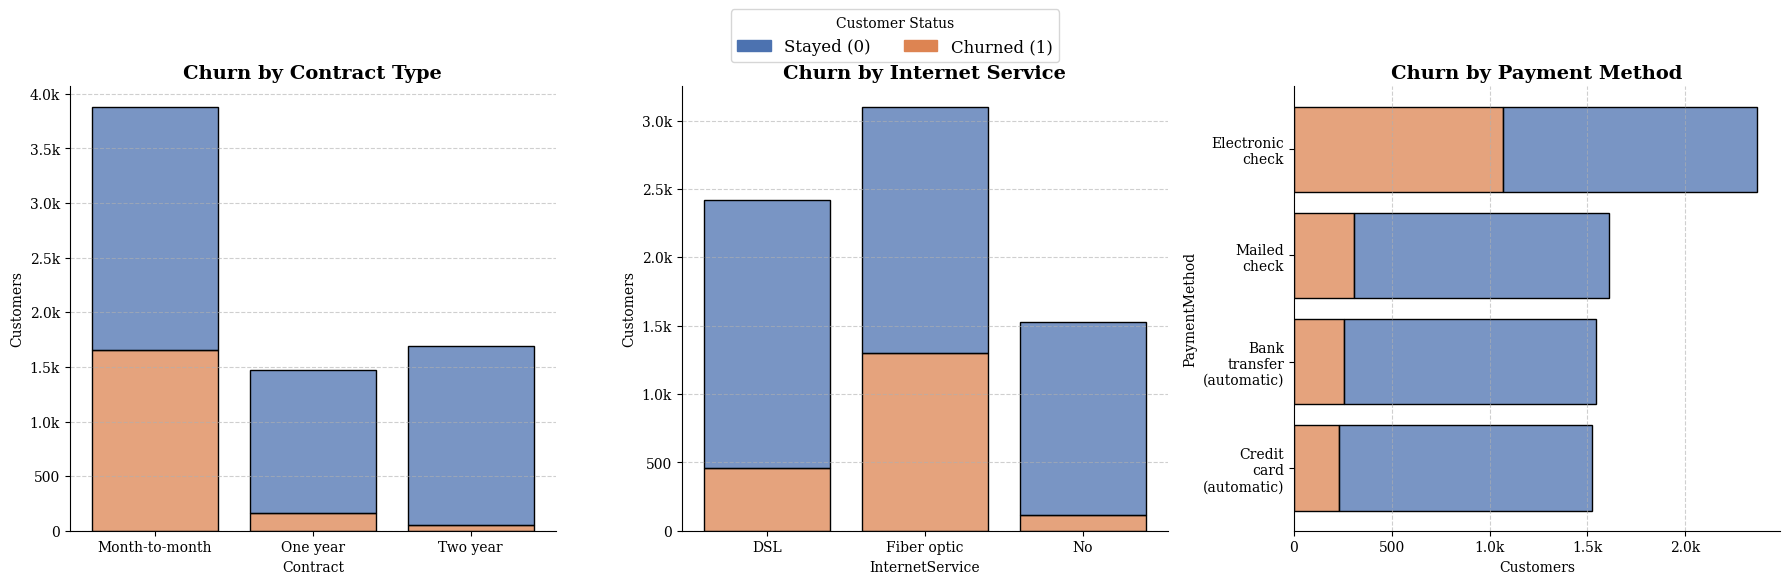
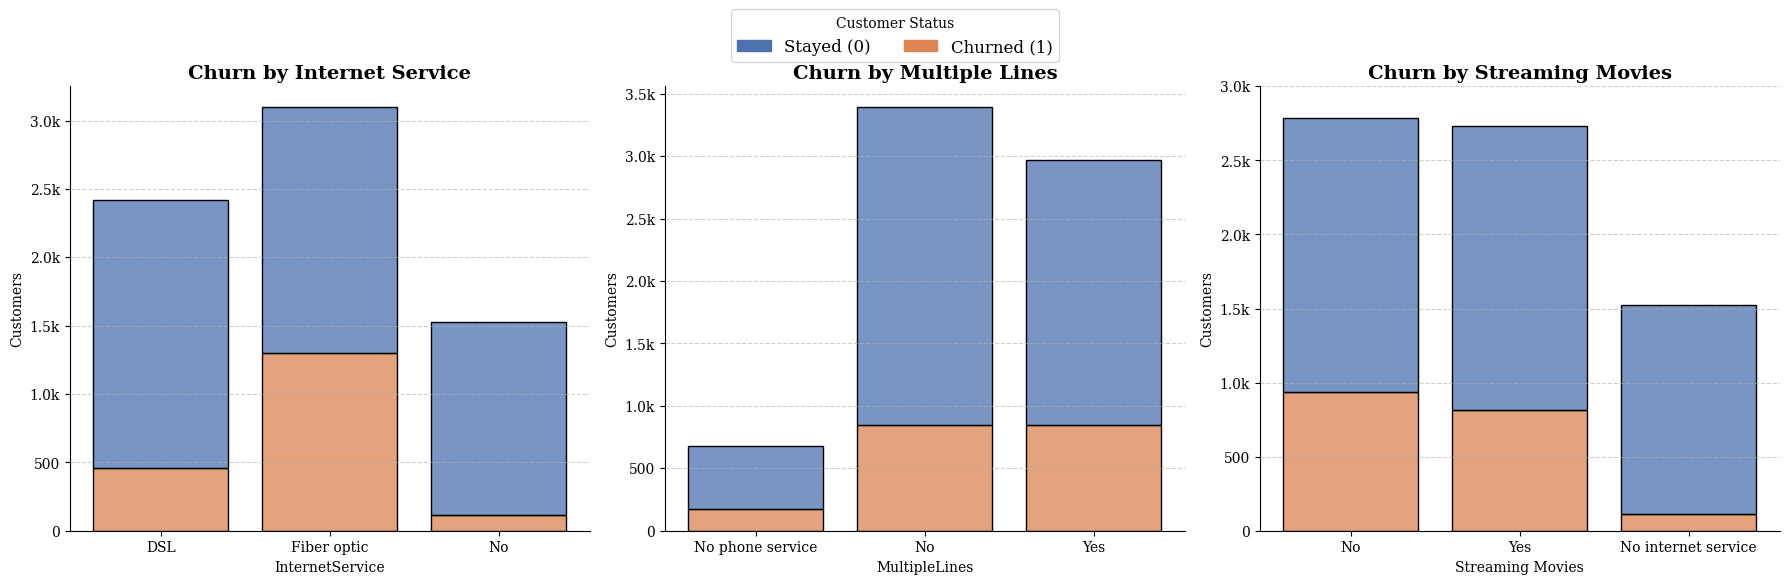
Finalize Churn model: add VIF diagnostics, resolve class imbalance, and update README with business insights

diff --git a/eda.py b/eda.py
@@ -10,6 +10,7 @@ from sklearn.metrics import accuracy_score
 from sklearn.metrics import classification_report, confusion_matrix
 from sklearn.ensemble import RandomForestClassifier
 import matplotlib.patches as mpatches
+from statsmodels.stats.outliers_influence import variance_inflation_factor
 
 # Συνδεόμαστε με την βάση και τραβάμε ΟΛΑ τα δεδομένα
 conn = sqlite3.connect('telco.db')
@@ -199,6 +200,161 @@ axes[2].set_yticks(axes[2].get_yticks())
 
 # i do this on the third figure in order not to have overlapping words
 axes[2].set_yticklabels([label.get_text().replace(' ', '\n') for label in axes[2].get_yticklabels()])
+
+# i take the legends of the first graph
+handles, labels = axes[0].get_legend_handles_labels()
+
+# 1. Φτιάχνουμε τα δικά μας χειροκίνητα "δείγματα" (patches) με τα χρώματα της παλέτας μας
+stay_patch = mpatches.Patch(color="#4C72B0", label='Stayed (0)')
+churn_patch = mpatches.Patch(color="#DD8452", label='Churned (1)')
+
+
+#  ΜΕΤΑ διαγράφουμε τα τοπικά legends και από τα 3 γραφήματα
+for ax in axes:
+    legend = ax.get_legend()
+    if legend is not None:
+        legend.remove()
+
+
+
+# 3. Φτιάχνουμε το κεντρικό legend δίνοντάς του τα χειροκίνητα patches που φτιάξαμε στο βήμα 1
+fig.legend(handles=[stay_patch, churn_patch], 
+           loc='upper center', 
+           bbox_to_anchor=(0.5, 0.98), 
+           ncol=2, 
+           title='Customer Status', 
+           fontsize=12)
+
+# Αφήνουμε χώρο στην κορυφή για το legend
+plt.tight_layout(rect=[0, 0, 1, 0.9])
+
+plt.savefig('plots/churn.png', bbox_inches='tight')
+plt.show()
+
+#multicollinearity check ! συμβαίνει όταν 2 ή περισσότερες μεταβλητές μετράνε το ίδιο πράγμα
+
+X_vif = X_train # (Άλλαξέ το αν η μεταβλητή σου λέγεται αλλιώς)
+
+# Φτιάχνουμε ένα άδειο DataFrame για να αποθηκεύσουμε τα αποτελέσματα όμορφα
+vif_data = pd.DataFrame()
+vif_data["Feature"] = X_vif.columns
+
+# Υπολογίζουμε το VIF για κάθε μία στήλη ξεχωριστά
+vif_data["VIF"] = [variance_inflation_factor(X_vif.values, i) for i in range(len(X_vif.columns))]
+
+# Ταξινομούμε από το μεγαλύτερο VIF στο μικρότερο, για να δούμε τα "προβλήματα" στην κορυφή
+vif_data = vif_data.sort_values(by="VIF", ascending=False).reset_index(drop=True)
+
+print("=== VIF DIAGNOSTIC TEST ===")
+print(vif_data.head(10)) # Τυπώνουμε τους 10 μεγαλύτερους "ενόχους"
+
+#========================================
+# Λίστα με τις "τοξικές" στήλες που βρήκαμε από το VIF
+columns_to_drop = [
+    'OnlineSecurity_No internet service',
+    'TechSupport_No internet service',
+    'StreamingTV_No internet service',
+    'DeviceProtection_No internet service',
+    'OnlineBackup_No internet service',
+    'StreamingMovies_No internet service',
+    'MonthlyCharges',
+    'TotalCharges',     # <-- ΝΕΑ ΠΡΟΣΘΗΚΗ
+    'PhoneService_Yes'  # <-- ΝΕΑ ΠΡΟΣΘΗΚΗ
+]
+
+
+# Τις αφαιρούμε από το X_vif
+X_vif_clean = X_vif.drop(columns=columns_to_drop)
+
+# Ξανατρέχουμε το VIF στο "καθαρό" dataset
+vif_data_clean = pd.DataFrame()
+vif_data_clean["Feature"] = X_vif_clean.columns
+vif_data_clean["VIF"] = [variance_inflation_factor(X_vif_clean.values, i) for i in range(len(X_vif_clean.columns))]
+vif_data_clean = vif_data_clean.sort_values(by="VIF", ascending=False).reset_index(drop=True)
+
+print("\n=== VIF AFTER CLEANING ===")
+print(vif_data_clean.head(10))
+
+# 1. Καθαρίζουμε τα δεδομένα εκπαίδευσης και δοκιμής
+X_train_final = X_train.drop(columns=columns_to_drop)
+X_test_final = X_test.drop(columns=columns_to_drop)
+
+# 2. Αρχικοποιούμε το μοντέλο (κρατάμε το class_weight='balanced' για το Churn!)
+final_model = LogisticRegression(max_iter=1000, class_weight='balanced')
+
+# 3. Το εκπαιδεύουμε στα καθαρά δεδομένα
+final_model.fit(X_train_final, y_train)
+
+# 4. Κάνουμε τις τελικές προβλέψεις
+y_pred_final = final_model.predict(X_test_final)
+
+# 5. Βλέπουμε το τελικό σκορ
+print("\n=== FINAL CLASSIFICATION REPORT ===")
+print(classification_report(y_test, y_pred_final))
+
+# 6. Εξάγουμε τα τελικά, "καθαρά" βάρη για να δούμε τι άλλαξε
+final_weights = pd.DataFrame({
+    'Feature': X_train_final.columns,
+    'Weight': final_model.coef_[0]
+}).sort_values(by='Weight', ascending=False)
+
+print("\n=== TOP 3 REASONS TO CHURN (Positive Weights) ===")
+print(final_weights.head(3))
+
+print("\n=== TOP 3 REASONS TO STAY (Negative Weights) ===")
+print(final_weights.tail(3))
+
+#plot
+fig, axes = plt.subplots(nrows =1, ncols = 3, figsize = (18,6))
+
+# Χρώματα: Μπλε για Stay (0) και Πορτοκαλί για Churn (1)
+custom_palette = {0: "#4C72B0", 1: "#DD8452"}
+
+#in the x variable i assign the column names from my first dataset without the One-Hot encoding
+sns.histplot(data=df, x='InternetService', hue='Churn', multiple='stack', shrink=0.8, ax=axes[0], palette=custom_palette, legend = 'auto')
+formatter = FuncFormatter(lambda x, pos: f'{float(x/1000)}k' if x >=1000 else int(x))
+axes[0].yaxis.set_major_formatter(formatter)
+axes[0].set_title('Churn by Internet Service',fontsize=14, fontweight='bold')
+axes[0].set_ylabel('Customers')
+sns.despine(top=True, right=True, left=False)
+axes[0].grid(True, axis='y', linestyle='--', alpha=0.6)
+
+
+sns.histplot(data=df, x='MultipleLines', hue='Churn', multiple='stack', shrink=0.8, ax=axes[1], palette=custom_palette)
+formatter = FuncFormatter(lambda x, pos: f'{float(x/1000)}k' if x >=1000 else int(x))
+axes[1].yaxis.set_major_formatter(formatter)
+axes[1].set_title('Churn by Multiple Lines',fontsize=14, fontweight='bold')
+axes[1].set_ylabel('Customers')
+sns.despine(top=True, right=True, left=False)
+axes[1].grid(True, axis='y', linestyle='--', alpha=0.6)
+
+
+# Φτιάχνουμε ένα προσωρινό mapping για να διαβάζεται το γράφημα 
+plot_data = df.copy()
+plot_data['StreamingMovies'] = plot_data['StreamingMovies'].replace({0: 'No', 1: 'Yes', 2: 'No internet service'})
+
+# Ζωγραφίζουμε χρησιμοποιώντας το plot_data αντί για το df
+sns.histplot(data=plot_data, x='StreamingMovies', hue='Churn', multiple='stack', shrink=0.8, ax=axes[2], palette=custom_palette)
+
+# ΔΙΟΡΘΩΣΗ 1: int αντί για float
+formatter = FuncFormatter(lambda x, pos: f'{float(x/1000)}k' if x >= 1000 else int(x))
+
+# ΔΙΟΡΘΩΣΗ 2: yaxis αντί για xaxis
+axes[2].yaxis.set_major_formatter(formatter)
+
+axes[2].set_title('Churn by Streaming Movies', fontsize=14, fontweight='bold')
+axes[2].set_ylabel('Customers')
+#  xlabel 
+axes[2].set_xlabel('Streaming Movies') 
+sns.despine(top=True, right=True, left=False)
+axes[2].grid(True, axis='y', linestyle='--', alpha=0.6)
+
+
+
+# Κλειδώνουμε τις θέσεις του άξονα y για να μην μας βγάλει warning η βιβλιοθήκη
+axes[2].set_yticks(axes[2].get_yticks())
+
+
 
 # i take the legends of the first graph
 handles, labels = axes[0].get_legend_handles_labels()

diff --git a/README.md b/README.md
@@ -1,15 +1,41 @@
-# Telco Customer Churn Analysis
+# Telco Customer Churn Prediction & Business Insights
 
-## The Business Problem
-The telecommunications company is experiencing a high rate of customer churn (customers leaving for competitors). The goal of this project is to analyze customer data, identify the key drivers of churn, and build a predictive model to flag at-risk customers.
+##  The Business Problem
+A telecommunications company is experiencing a high rate of customer churn (customers leaving for competitors). The goal of this project is to analyze customer data, identify the key drivers of churn, and build a predictive model to flag at-risk customers, allowing the business to take proactive retention measures.
 
-## Technologies Used
+##  Technologies Used
 * **Database:** SQLite / SQL
-* **Data Processing:** Python (Pandas)
-* **Statistical Analysis:** SciPy
-* **Machine Learning:** Scikit-Learn (Logistic Regression, Random Forest)
+* **Data Processing & EDA:** Python (Pandas, NumPy)
+* **Data Visualization:** Matplotlib, Seaborn
+* **Statistical Diagnostics:** Statsmodels (VIF)
+* **Machine Learning:** Scikit-Learn (Logistic Regression)
 
-## Project Structure
-*(To be updated as the project progresses)*
+##  Methodology & Approach
+Unlike basic predictive pipelines, this project focuses heavily on **model interpretability and statistical validity**:
+1. **Data Preprocessing:** Handled missing values and performed One-Hot Encoding for categorical variables.
+2. **Handling Class Imbalance:** Addressed the heavily imbalanced dataset (high retention, low churn) by applying algorithmic class weights (`class_weight='balanced'`). This significantly boosted the **Recall** metric, ensuring the model successfully catches customers who are actually going to leave.
+3. **Multicollinearity Diagnostic (VIF):** Conducted a Variance Inflation Factor (VIF) analysis to eliminate multicollinearity (e.g., removing `TotalCharges` and redundant dummy variables). This crucial step ensured that the Logistic Regression coefficients were mathematically stable and ready for business interpretation.
 
-*Current Status: "Εκπαίδευση baseline μοντέλου (Logistic Regression). Εντοπισμός προβλήματος Class Imbalance (Recall: 60% στο Churn). Επόμενο βήμα: Χρήση Random Forest."*
+##  Business Insights: Why are customers leaving?
+By extracting the weights from the statistically robust Logistic Regression model, we identified the top drivers of customer behavior:
+
+**Top 3 Churn Drivers (Risk Factors):**
+1. **Fiber Optic Service:** The strongest indicator of churn. This suggests potential technical issues, outages, or unmet expectations with the premium internet service.
+2. **Multiple Lines (No Phone Service):** Customers with specific, non-standard line configurations show a higher propensity to leave.
+3. **Streaming Movies:** Customers subscribing to movie streaming are churning faster, hinting at poor platform content or fierce external competition (e.g., Netflix).
+
+**Top Retention Drivers (Loyalty Factors):**
+1. **Long-Term Contracts:** 1-year and 2-year contracts are the absolute strongest retention mechanics.
+2. **Tenure:** The longer a customer stays, the less likely they are to churn. 
+3. **No Internet Service:** A specific demographic (likely older customers relying only on landlines) remains highly loyal and unaffected by market competition.
+
+##  Dashboard & Visualizations
+Below is a snapshot of the custom dashboard built to visualize the risk of churn across different service categories.
+
+![Customer Churn Dashboard](plots/churn.png)
+*(Ensure the image is saved in a `plots/` folder in your repository for this to render correctly)*
+
+## How to Run
+1. Clone this repository.
+2. Install dependencies: `pip install -r requirements.txt`
+3. Run the main notebook/script to view the data cleaning, VIF diagnostics, model training, and visualization outputs.
